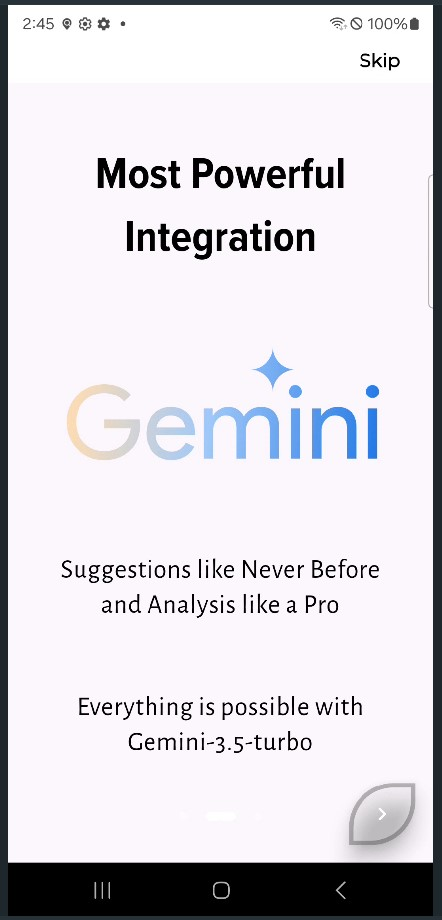
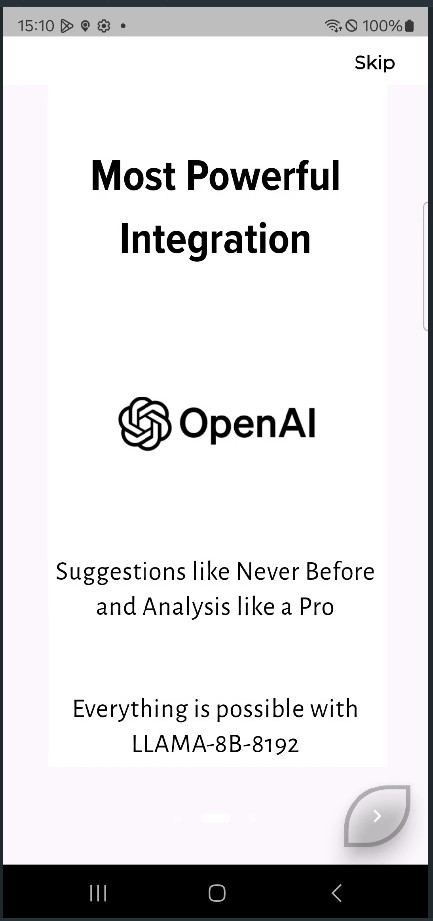
syncfusion-animations

diff --git a/lib/presentation/onboarding/onboarding.dart b/lib/presentation/onboarding/onboarding.dart
@@ -74,11 +74,6 @@ class Onboarding extends StatelessWidget {
               width: MediaQuery.of(context).size.width,
               child: LottieBuilder.network(
                   "https://lottie.host/041fa715-ab55-4bde-802e-1e230e2f1dce/C4XLl7Dw0s.json"),
-              // decoration: const BoxDecoration(
-              //     color: Colors.white,
-              //     image: DecorationImage(
-              //         image: AssetImage('assets/med1.jpg'),
-              //         fit: BoxFit.fitWidth)),
             ),
             Padding(
               padding: EdgeInsets.only(
@@ -87,13 +82,11 @@ class Onboarding extends StatelessWidget {
                 Container(
                   height: MediaQuery.of(context).size.height * 0.80,
                   width: MediaQuery.of(context).size.width * 0.8,
-                  child: LottieBuilder.network(
-                      "https://lottie.host/1d09072d-7a9a-4cd2-8b01-1ca6a6d7cc72/M7HqlE0SPf.json"),
-                  // decoration: const BoxDecoration(
-                  //     color: Colors.white,
-                  //     image: DecorationImage(
-                  //         image: AssetImage('assets/ai.png'),
-                  //         fit: BoxFit.contain)),
+                  decoration: const BoxDecoration(
+                      color: Colors.white,
+                      image: DecorationImage(
+                          image: AssetImage('assets/llama.png'),
+                          fit: BoxFit.contain)),
                 ),
               ]),
             ),
@@ -195,7 +188,7 @@ class Onboarding extends StatelessWidget {
                         height: 60,
                       ),
                       Text(
-                        "Everything is possible with Gemini-3.5-turbo",
+                        "Everything is possible with LLAMA-8B-8192",
                         style: Theme.of(context).textTheme.labelMedium,
                         textAlign: TextAlign.center,
                       )

diff --git a/README.md b/README.md
@@ -8,13 +8,6 @@
             - **Performance Improvements**: Optimized API response times.
             - **UI Enhancements**: Updated the home UI and added animations.
 
-**old** 
-
-## What's New in v2.0.3.1
-            - **Bug Fixes**: Resolved an issue where all quotes & mood would become repetitive.
-            - **Performance Improvements**: Optimized API response times.
-            - **UI Enhancements**: Updated the home UI and improved navigation for a smoother experience.
-
 **old** : IMPROVISED FER-MODEL:v2 + PREPARING FOR SyncFusionCharts
 
 **old** : v2.0.0 ReImagines Major UI 
